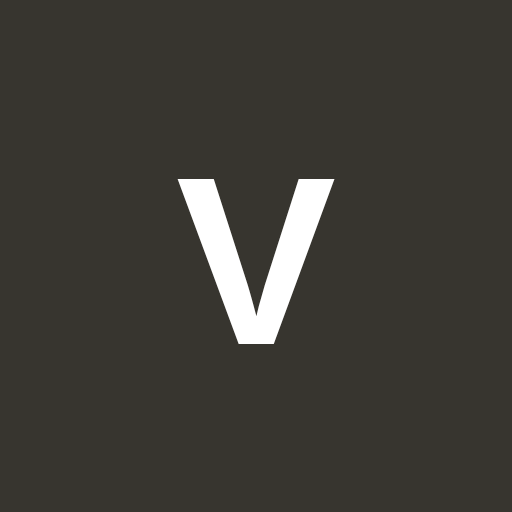
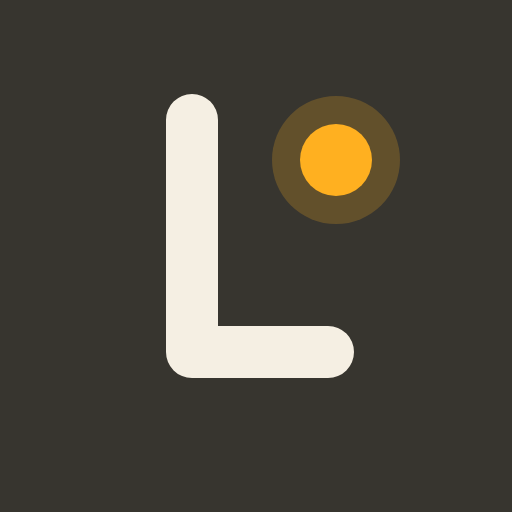
v0.14: renomeia o app para Lume + novo ícone
- Nome do app: 'Vida' → 'Lume' (título, manifest PWA, sidebar, README)
- Novo ícone monograma: 'L' creme com ponto de luz âmbar sobre grafite
  (favicon.svg + pwa-192/512 regerados; gen-icons.mjs atualizado)
- Backup exportado agora nomeia lume-backup-AAAA-MM-DD.json
- Chaves internas preservadas (banco Dexie 'vida', localStorage 'vida:*',
  marcador de backup app:'vida', tokens CSS --vida-*) para não perder os
  dados já salvos nos dispositivos

Claude-Session: https://claude.ai/code/session_01Lxc6kTmjJXGLMLWiLCFTmE

Changed region(s): [[0.3125, 0.1875, 0.7812, 0.75]]

diff --git a/src/core/layout/AppShell.tsx b/src/core/layout/AppShell.tsx
@@ -100,7 +100,7 @@ function Sidebar({ aoNavegar }: { aoNavegar?: () => void }) {
     const url = URL.createObjectURL(blob)
     const a = document.createElement('a')
     a.href = url
-    a.download = `vida-backup-${dados.exportadoEm.slice(0, 10)}.json`
+    a.download = `lume-backup-${dados.exportadoEm.slice(0, 10)}.json`
     a.click()
     URL.revokeObjectURL(url)
     avisar('Backup exportado')
@@ -119,7 +119,7 @@ function Sidebar({ aoNavegar }: { aoNavegar?: () => void }) {
   return (
     <aside className="flex h-full w-64 flex-col border-r border-line bg-surface">
       <div className="px-4 pt-5 pb-3">
-        <span className="text-lg font-bold tracking-tight">Vida</span>
+        <span className="text-lg font-bold tracking-tight">Lume</span>
       </div>
 
       <nav className="flex flex-1 flex-col gap-0.5 px-2" aria-label="Módulos">

diff --git a/index.html b/index.html
@@ -5,7 +5,7 @@
     <link rel="icon" type="image/svg+xml" href="/favicon.svg" />
     <meta name="viewport" content="width=device-width, initial-scale=1.0, viewport-fit=cover" />
     <meta name="description" content="Seu espaço minimalista para organizar todas as áreas da vida." />
-    <title>Vida</title>
+    <title>Lume</title>
     <script>
       // Aplica o tema salvo antes da primeira pintura para evitar flash
       if (

diff --git a/vite.config.ts b/vite.config.ts
@@ -13,8 +13,8 @@ export default defineConfig({
       registerType: 'autoUpdate',
       includeAssets: ['favicon.svg'],
       manifest: {
-        name: 'Vida',
-        short_name: 'Vida',
+        name: 'Lume',
+        short_name: 'Lume',
         description: 'Seu espaço minimalista para organizar todas as áreas da vida.',
         lang: 'pt-BR',
         display: 'standalone',

diff --git a/README.md b/README.md
@@ -1,4 +1,4 @@
-# Vida
+# Lume
 
 App pessoal minimalista, inspirado no Notion, para centralizar e administrar todas as áreas da sua vida — feito para ser usado principalmente no tablet.
 
